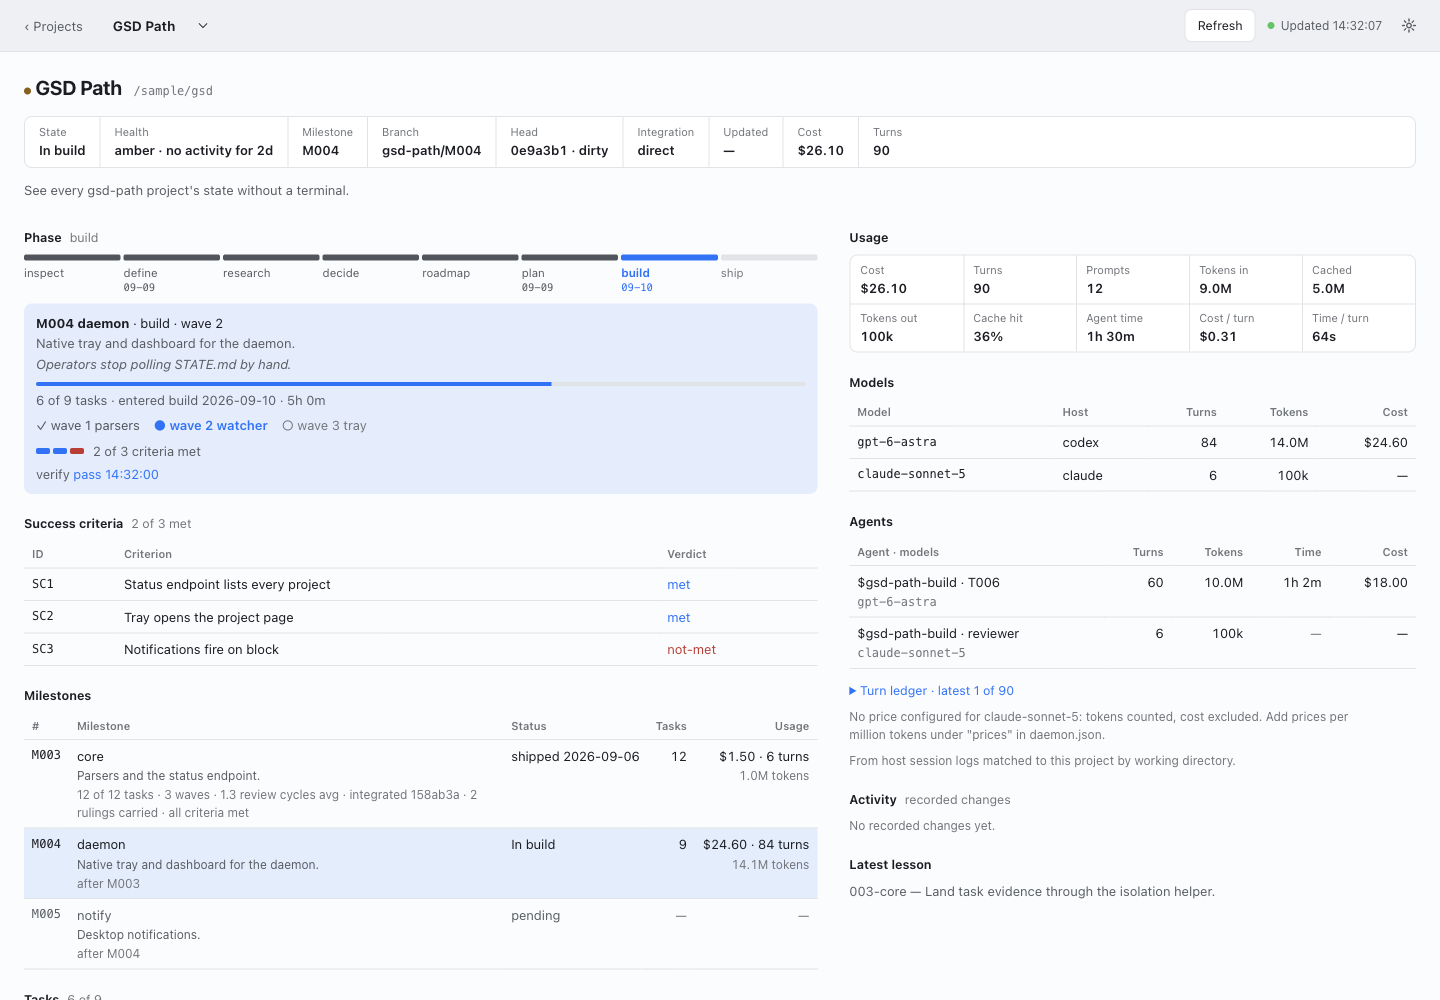
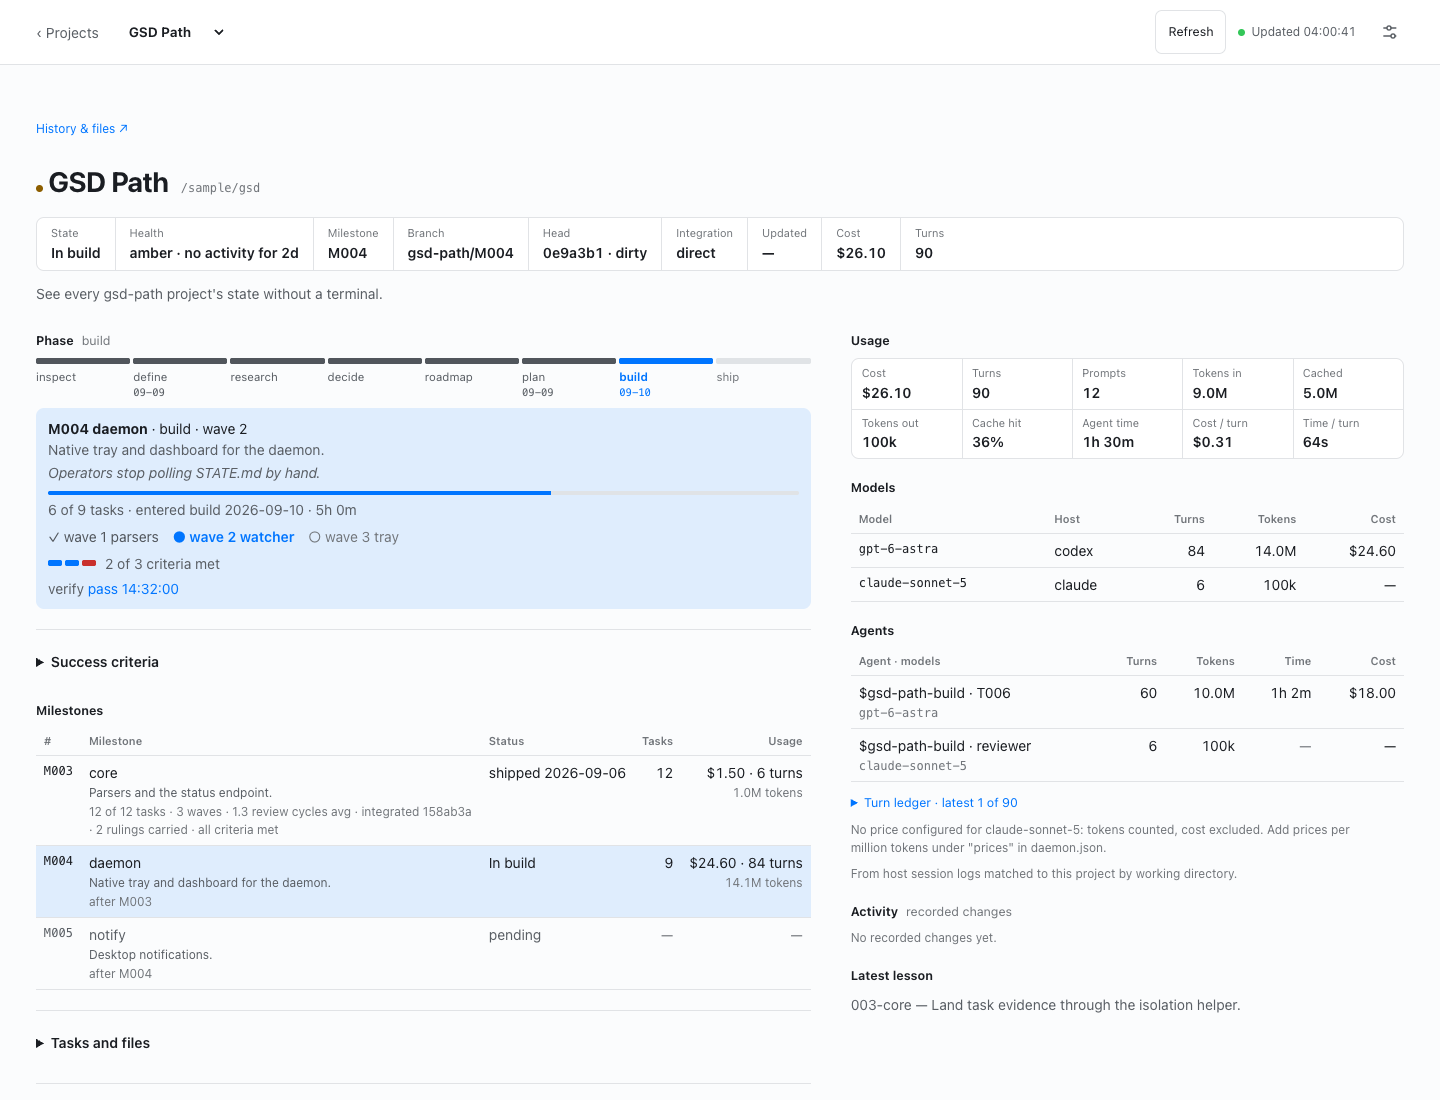
docs: refresh README changes and dashboard screenshots

diff --git a/README.md b/README.md
@@ -32,6 +32,33 @@ proof and each host's guard tier.
 | [RELEASE.md](RELEASE.md) | Maintainer CI and npm release cycle |
 | [GUIDE.md](GUIDE.md) | Pointer to the guides above |
 
+## What's new — September 19, 2026
+
+These changes are merged into the source checkout; npm installs use the latest
+published release.
+
+- **Dashboard settings and history:** edit Path settings, browse project files
+  and Git versions, and load full recorded evidence. See the
+  [dashboard guide](daemon/README.md#project-history-and-files).
+- **Model and effort policy:** set user, project, host, and task choices through
+  one resolver. Recorded assignments stay pinned; unsupported explicit choices
+  stop the affected dispatch. See the
+  [model policy](skills/gsd-path/references/model-policy.md).
+- **External worktrees and pinned runtimes:** new parallel task, verification,
+  and integration worktrees live outside project checkouts. Projects pin runtime
+  versions by content digest, with explicit upgrade, restore, and legacy migration
+  commands. See
+  [worktree locations](DOCS.md#worktree-locations) and
+  [runtime versions](DOCS.md#project-runtime-versions).
+- **Clearer project updates:** the dashboard shows project runtime versions and
+  update results. After verified integration, ordinary branches can resume
+  product work while archived milestones remain protected. See
+  [update guidance](UPDATE.md#update-the-project-runtime-and-guard-hooks).
+- **Optional Jev screening:** reviewers can request advisory checks of selected
+  criteria and evidence. It is disabled by default and never replaces recorded
+  verification or review gates. See
+  [Jev screening](skills/gsd-path/references/jev-review.md).
+
 ## Install from npm
 
 Requires **Node.js 18.17+** for the npm installer and **Python 3.9+** for
@@ -109,14 +136,31 @@ phase progress, task counts, last activity, and available usage data. Use the
 [dashboard controls](daemon/README.md#dashboard) to filter or search projects,
 switch between Board and Milestones, refresh status, and manage settings.
 
-![OpenGSD Path dashboard showing sample projects, phase progress, and toolbar controls](docs/images/dashboard-board.png)
+![OpenGSD Path project board showing sample projects, status filters, milestone progress, tasks, and usage](docs/images/dashboard-board.png)
 
 Click a project to see its milestone roadmap, tasks, success criteria, review
 results, verification history, and activity. Usage includes tokens and turns
 from supported host session logs; cost estimates require model prices in the
 daemon configuration.
 
-![Project dashboard showing milestone progress, criteria, tasks, and usage with sample data](docs/images/dashboard-project.png)
+![Project dashboard showing the history viewer link, milestone progress, expandable evidence, and usage with sample data](docs/images/dashboard-project.png)
+
+*Dashboard screenshots captured from the current source on September 19, 2026,
+using the repository's sample projects.*
+
+Open **History & files** to browse project files and archived milestones,
+preview Markdown, or read a file at a selected Git commit. Relative document
+links keep that selected version. **Records & sources → Load full records**
+loads recorded usage, verification, activity, and indexed host turns on demand,
+with coverage details that make missing or invalid data visible.
+
+Open **Settings → Path settings** to change user defaults or project overrides
+for shipping mode, model and effort choices, and future review panels. Each
+setting shows its source and any lock reason; changes are saved explicitly.
+
+The **Plugin** settings page shows each watched project's runtime version and
+provides an explicit **Update** action with progress and failure details.
+Updating global skills does not update a project's pinned runtime.
 
 ### macOS menu bar
 
